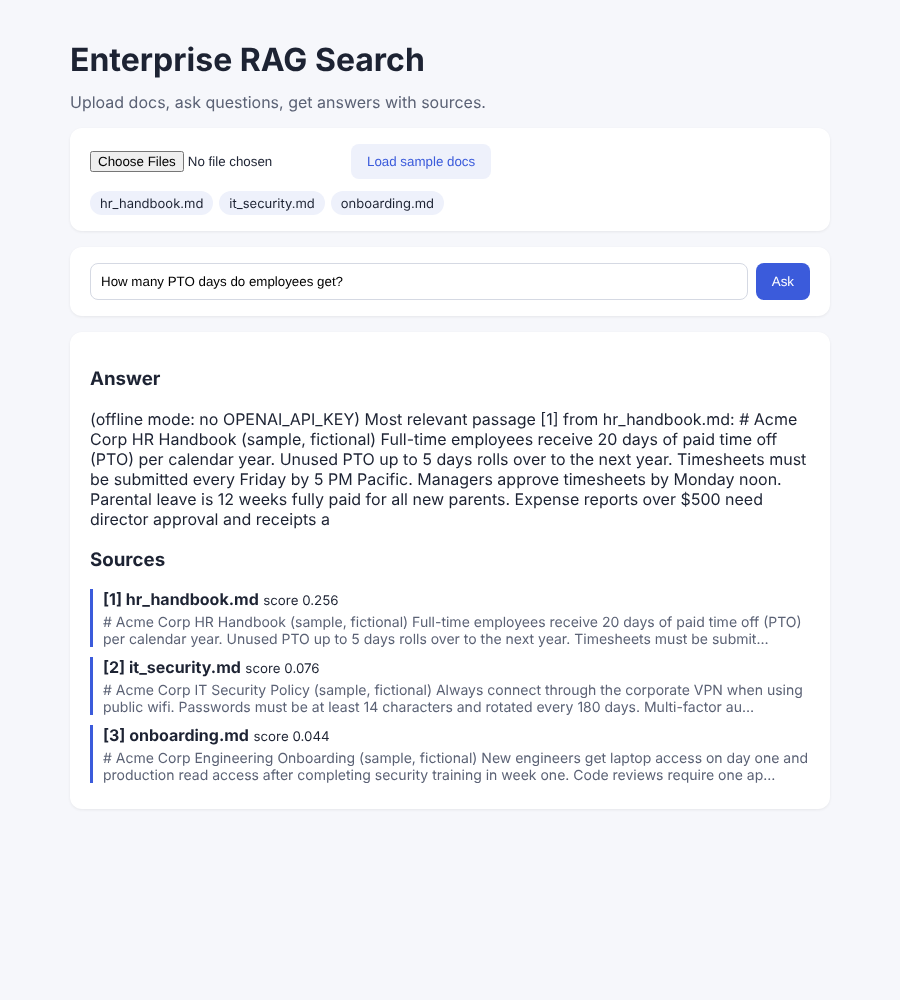
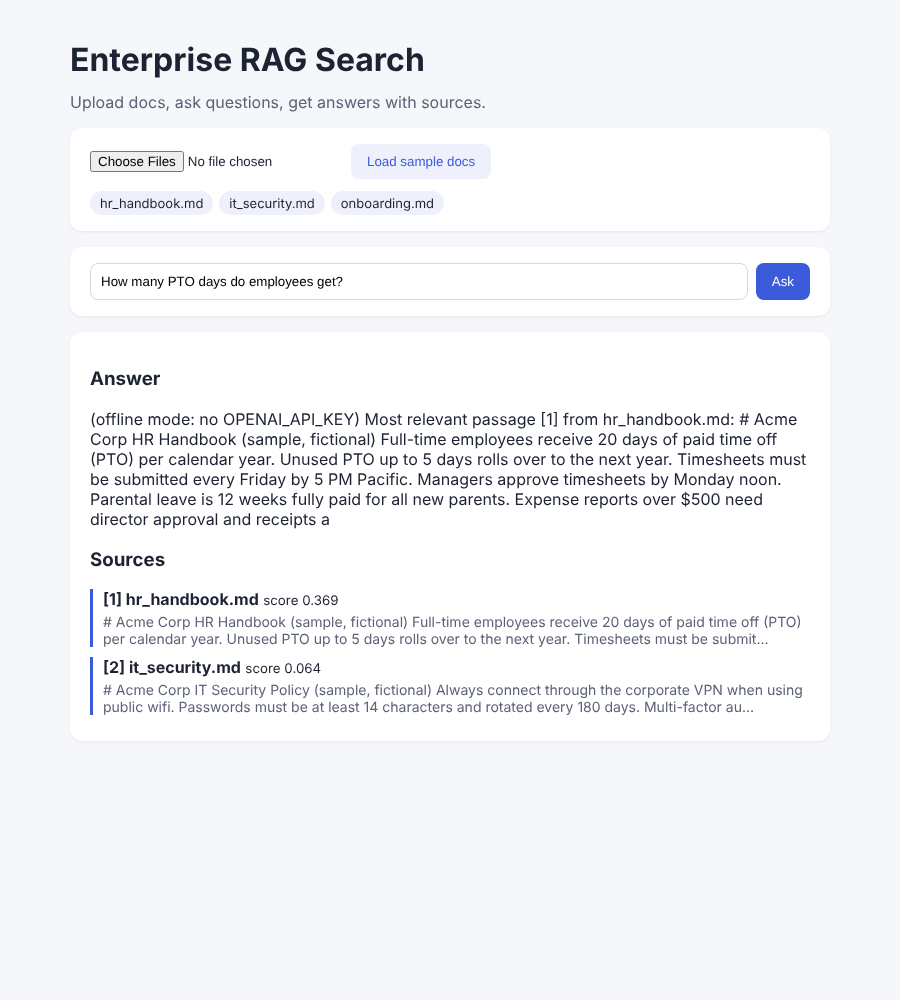
Add live graph visualization and demo media

Changed region(s): [[0.0933, 0.713, 0.9022, 0.806], [0.3422, 0.651, 0.3733, 0.682], [0.3422, 0.589, 0.3733, 0.62]]

diff --git a/backend/app/embeddings.py b/backend/app/embeddings.py
@@ -11,6 +11,11 @@ import re
 import numpy as np
 
 
+STOPWORDS = set("""a an the and or but if of to in on at by for with from as is are was were be been
+do does did have has had i me my we our you your it its this that these those what which who whom
+when where why how should can could would will shall may might must use used get gets not no""".split())
+
+
 class HashEmbedder:
     def __init__(self, dim: int = 512):
         self.dim = dim
@@ -19,6 +24,8 @@ class HashEmbedder:
         out = np.zeros((len(texts), self.dim), dtype=np.float32)
         for row, text in enumerate(texts):
             for tok in re.findall(r"[a-z0-9]+", text.lower()):
+                if tok in STOPWORDS:
+                    continue
                 idx = int(hashlib.md5(tok.encode()).hexdigest(), 16) % self.dim
                 out[row, idx] += 1.0
         return out

diff --git a/backend/tests/test_rag.py b/backend/tests/test_rag.py
@@ -39,3 +39,16 @@ def test_rag_returns_citations_offline():
 def test_empty_store():
     rag = RAGPipeline(embedder=HashEmbedder())
     assert rag.ask("anything")["citations"] == []
+
+
+@pytest.mark.parametrize("question,doc", [
+    ("How many PTO days do employees get?", "hr_handbook.md"),
+    ("When do deployments go out?", "onboarding.md"),
+    ("What should I use on public wifi?", "it_security.md"),
+])
+def test_sample_questions_hit_right_doc(question, doc):
+    from pathlib import Path
+    rag = RAGPipeline(embedder=HashEmbedder(), llm=lambda p: "ok")
+    for f in sorted((Path(__file__).resolve().parents[2] / "sample_docs").glob("*.md")):
+        rag.ingest(f.read_text(), f.name)
+    assert rag.ask(question)["citations"][0]["doc"] == doc

diff --git a/README.md b/README.md
@@ -4,7 +4,7 @@ Upload documents, ask questions in plain English, and get answers with citations
 
 I built this to understand each part of a retrieval-augmented generation (RAG) pipeline end to end: chunking, embeddings, vector search, and grounded prompting.
 
-![screenshot](docs/screenshot.png)
+![demo](docs/demo.gif)
 
 **Stack:** Python, Flask, NumPy, OpenAI API, React (Vite), Docker, pytest, GitHub Actions
 
@@ -74,7 +74,7 @@ Open the UI, click **Load sample docs**, and try "How many PTO days do employees
 cd backend && pytest -q
 ```
 
-Tests cover chunk overlap, vector ranking, citation output, and the empty-store case. They run on every push through GitHub Actions.
+Tests cover chunk overlap, vector ranking, citation output, the empty-store case, and that each sample question retrieves the right document. They run on every push through GitHub Actions.
 
 ## Project structure
 
